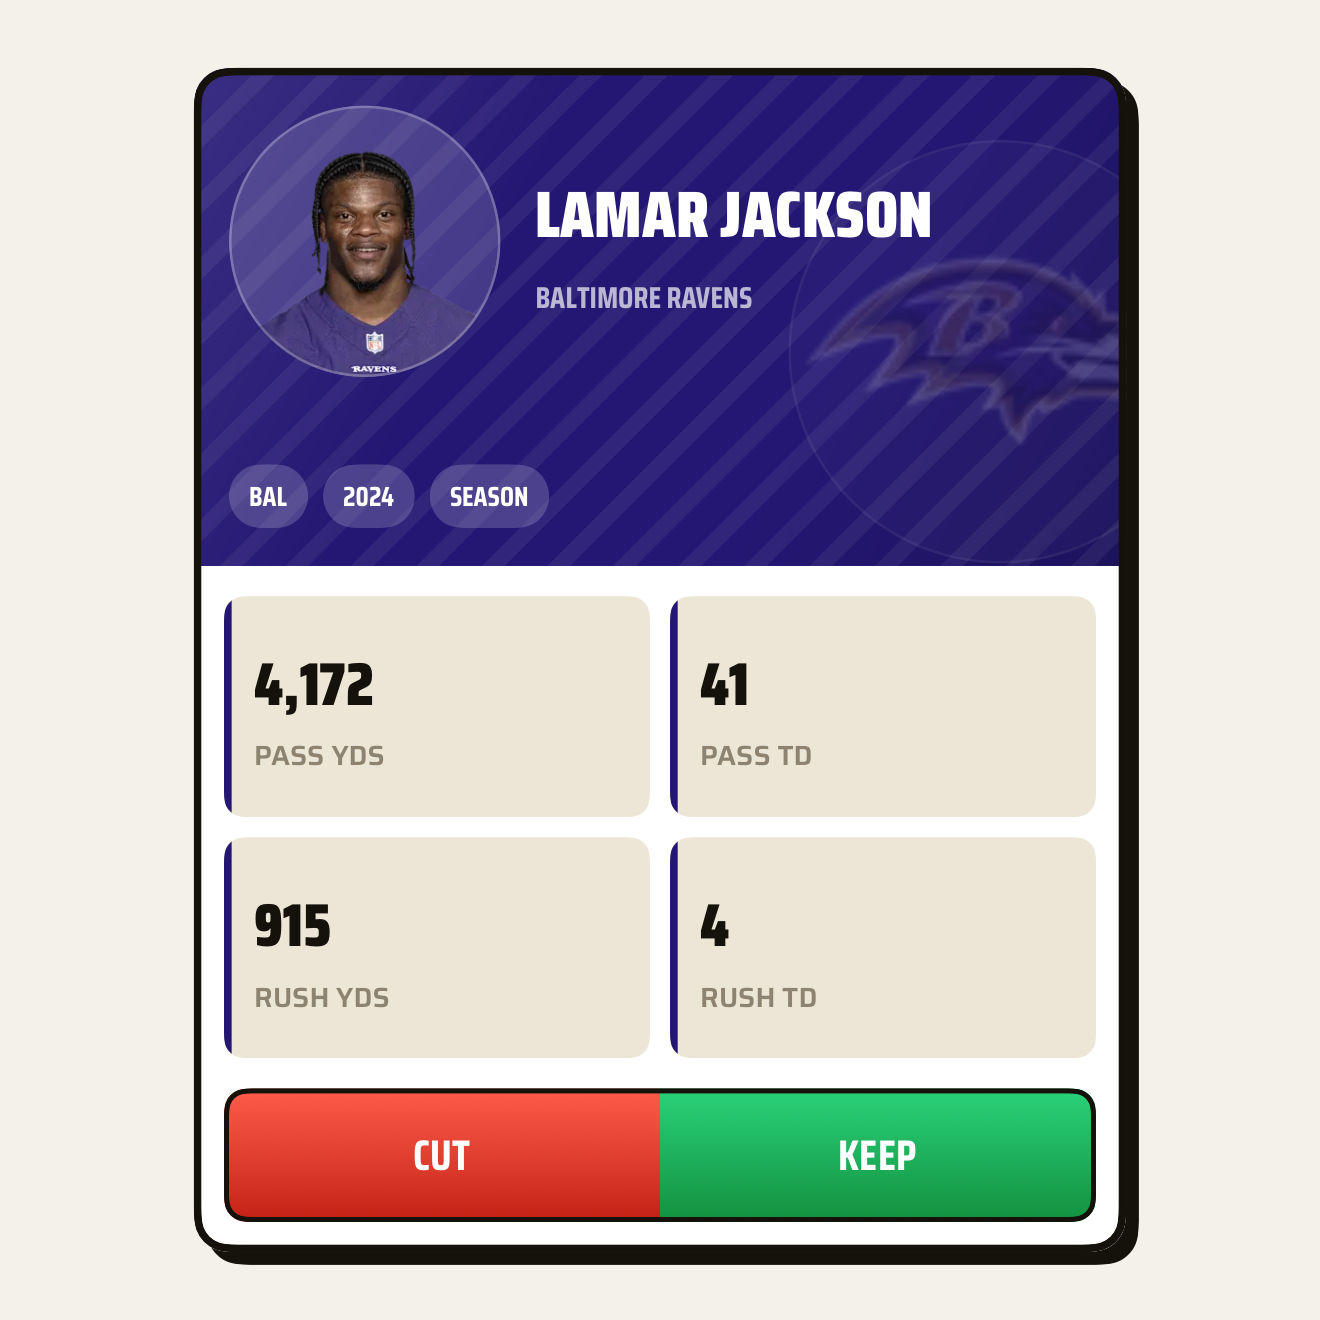
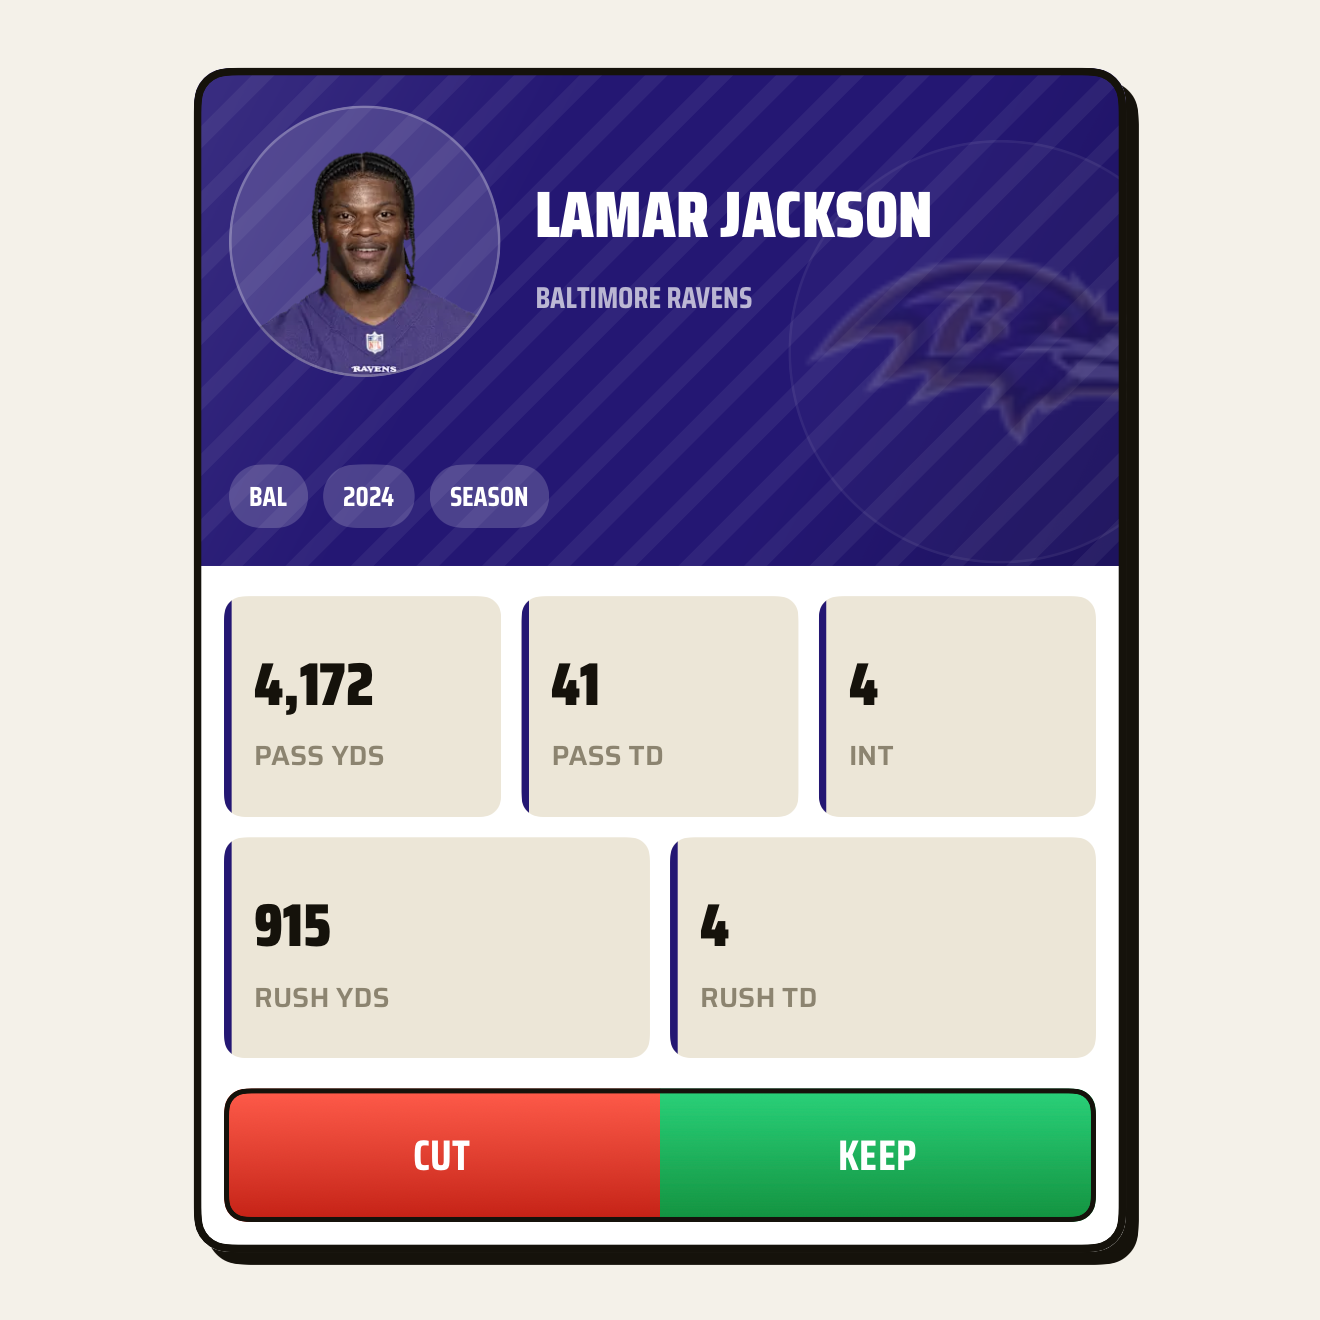
Fix both slide defects: the missing formats and the QB with no interceptions
Slide 3 was built with `GameFormat.all.prefix(6)`, so a slide captioned "every way to play"
was missing two of the eight — Versus, and Puzzle Blitz, which is what slide 1 is about. It
renders all eight now, laid out at the height they need and scaled into the square so the top
and bottom rows keep a margin against Notelet's rounded clip.

The card fixture dropped INT. The bundled catalog carries three variants of Lamar Jackson 2024
across different themes; the script that seeded this fixture filtered for a 4-stat line and
landed on `nfl-total-fantasy-00`, the one variant that omits interceptions. A real row, but an
atypical one, and a QB card with no INT reads as a data bug to anyone who knows the sport. Now
copied verbatim from `nfl-qb-mvp-00` — which is also the catalog's dominant shape (284 of the
400 bundled cards are 5-stat), so the slide shows the 3+2 layout most players actually see.

Both were the same kind of mistake: a fixture chosen by a script's convenience rather than by
what the app typically renders. The art is only as honest as what it is asked to draw.

916 tests pass. All three slides verified on device.

Changed region(s): [[0.3727, 0.4348, 0.6833, 0.6212]]

diff --git a/BallIQTests/OPMSlideGalleryTests.swift b/BallIQTests/OPMSlideGalleryTests.swift
@@ -31,6 +31,13 @@ final class OPMSlideGalleryTests: XCTestCase {
     /// Hardcoded rather than read from the bundled puzzles: the art has to be reproducible, and
     /// content churn would otherwise silently redraw the slide. The *view* is the shipping one —
     /// that is what the rule is about — while the row it draws is a fixture.
+    ///
+    /// Copied verbatim from `nfl-qb-mvp-00`, five stats and all. The first version of this
+    /// fixture was pulled by a script filtering for a 4-stat line and landed on the one variant
+    /// of this player-season that drops INT (`nfl-total-fantasy-00`) — a real row, but an
+    /// atypical one, and a QB card with no interceptions reads as a bug to anyone who knows the
+    /// sport. Five stats is also the catalog's dominant shape (284 of the 400 bundled cards), so
+    /// this renders the 3+2 layout most players actually see.
     private var sampleCard: PlayerSeason {
         PlayerSeason(
             id: "nfl-lamar-jackson-2024",
@@ -39,6 +46,7 @@ final class OPMSlideGalleryTests: XCTestCase {
             seasonYear: 2024,
             stats: [.init(label: "Pass Yds", value: "4,172"),
                     .init(label: "Pass TD", value: "41"),
+                    .init(label: "INT", value: "4"),
                     .init(label: "Rush Yds", value: "915"),
                     .init(label: "Rush TD", value: "4")],
             grade: 438.4,
@@ -127,15 +135,26 @@ final class OPMSlideGalleryTests: XCTestCase {
     /// Slide 2 — Home's formats grid, drawn by the same `FormatGridItem` the page uses, in the
     /// same two-column layout, so the slide matches what the player sees when they close it.
     func testRenderFormatsSlide() async throws {
+        // **Every** format, not a prefix. The first version took `.prefix(6)`, which dropped
+        // Versus and Puzzle Blitz — so a slide captioned "every way to play" was missing two of
+        // the eight, one of them the new mode slide 1 is about.
         let columns = [GridItem(.flexible(), spacing: 12), GridItem(.flexible(), spacing: 12)]
         let poster = ZStack {
             Color.appBackground
+            // Laid out at the height eight tiles actually need, then scaled into the square —
+            // same reasoning as the card slide: squeezing the frame would restyle the tiles
+            // rather than shrink them.
             LazyVGrid(columns: columns, spacing: 12) {
-                ForEach(Array(GameFormat.all.prefix(6))) { format in
+                ForEach(GameFormat.all) { format in
                     FormatGridItem(format: format) {}
                 }
             }
-            .padding(22)
+            .padding(20)
+            .frame(width: 440, height: 540)
+            // Scaled to a little under the square so the top and bottom rows keep a margin —
+            // Notelet clips media into a rounded rect, and a tile flush to the edge loses its
+            // corner to the clip.
+            .scaleEffect((side - 30) / 540)
         }
         try write(poster, named: "opm-formats-first")
     }
